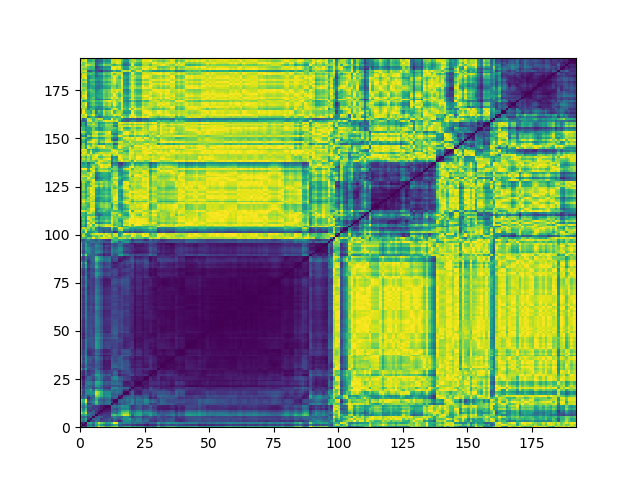
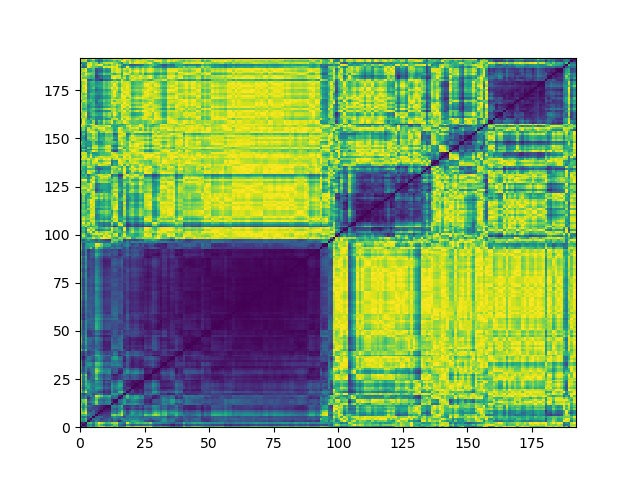
Good results!

diff --git a/filter_sim.py b/filter_sim.py
@@ -4,7 +4,9 @@ import math
 from tqdm import tqdm
 import torch
 from util import *
+import sys
 
+sys.setrecursionlimit(2000)
 
 linSort = False
 hierSort = True
@@ -29,7 +31,7 @@ print("Filters got")
 #frames = create_permutations(choices, 9)
 frames = []
 if method == "randomNumberPermutation":
-    frames = create_permutations([0, 1/3, 2/3, 1], 9)
+    frames = create_permutations([0, 1], 9)
 elif method == "randomMatrixGeneration":
     frames = np.random.randint(0, 10, (50000, 9))
 else:
@@ -93,10 +95,33 @@ if hierSort:
         plt.xlim([0, len(dist_mat)])
         plt.ylim([0, len(dist_mat)])
         plt.show(block=False)
-        plt.savefig("permutation_mag1_noNeg_thirds_l28/"+str(method)+".png")
+        plt.savefig("permutation_mag1_noNeg_full_l28/"+str(method)+".png")
 
 if vis:
     figure = plt.figure()
     axes = figure.add_subplot(111)
-    caxes = axes.matshow(np.array(data3), interpolation ='none')
+    caxes = axes.matshow(np.array(dist_mat), interpolation ='none')
     figure.colorbar(caxes)
+# benefits of filter diversity, measurements https://arxiv.org/pdf/2004.03334v2.pdf
+# benefits of filter diversity https://github.com/ddhh/NoteBook/blob/master/%E6%B7%B1%E5%BA%A6%E5%AD%A6%E4%B9%A0/LNCS%207700%20Neural%20Networks%20Tricks%20of%20the%20Trade.pdf
+# weight variance on quality http://cce.lternet.edu/docs/bibliography/Public/377ccelter.pdf
+# " In theory, the larger the filter variance, the more important the filter is. https://ieeexplore.ieee.org/stamp/stamp.jsp?arnumber=8786196
+
+'''
+https://arxiv.org/pdf/1906.04252.pdf
+https://openaccess.thecvf.com/content_ICCV_2017/papers/Zoumpourlis_Non-Linear_Convolution_Filters_ICCV_2017_paper.pdf
+https://www.machinecurve.com/index.php/2018/12/07/convolutional-neural-networks-and-their-components-for-computer-vision/
+https://misl.ece.drexel.edu/wp-content/uploads/2018/04/BayarStammTIFS01.pdf
+https://medium.com/@bairoukanasa5/improving-convolutional-neural-network-accuracy-using-gabor-filter-and-progressive-resizing-8e60caf50d8d
+https://arxiv.org/ftp/arxiv/papers/1904/1904.13204.pdf
+https://www.researchgate.net/post/Fixed_Gabor_Filter_in_Convolutional_Neural_Networks
+https://elib.dlr.de/117228/1/Masterthesis.pdf
+https://towardsdatascience.com/demystifying-convolutional-neural-networks-384785791596
+https://medium.com/@eos_da/applying-neural-network-and-local-laplace-filter-methods-to-very-high-resolution-satellite-imagery-3b203e5cc444
+http://papers.nips.cc/paper/4061-layer-wise-analysis-of-deep-networks-with-gaussian-kernels.pdf
+https://arxiv.org/pdf/1803.00388.pdf
+https://vcl.iti.gr/new/volterra-based-convolution-filter-implementation-in-torch/
+https://www.google.com/search?q=filter+normalization+convolutional+neural+network&oq=filter+normalization+conv&aqs=chrome.1.69i57j33l4.5731j0j7&sourceid=chrome&ie=UTF-8
+https://stats.stackexchange.com/questions/133368/how-to-normalize-filters-in-convolutional-neural-networks
+https://arxiv.org/pdf/1911.09737.pdf
+'''
